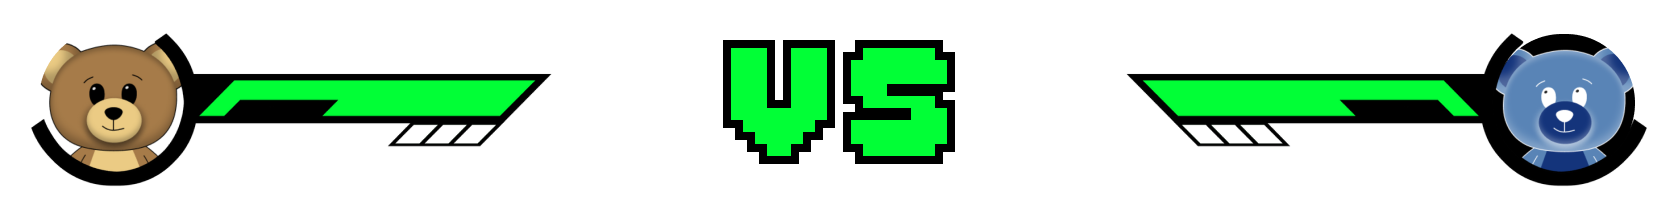
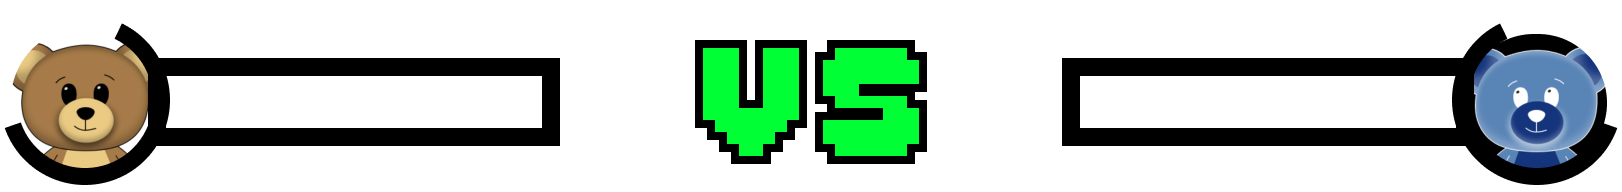
health bar added

diff --git a/src/pages/permPIXEL/PicFighter.js b/src/pages/permPIXEL/PicFighter.js
@@ -53,7 +53,9 @@ class PicFighter extends React.Component {
             attackQueue : [],
             attacking : false,
             animationUrl : 'images/idle.gif',
-            selected: ''
+            selected: '',
+            leftHealth : 290,
+            rightHealth : 290
         }
 	}
 
@@ -76,7 +78,16 @@ class PicFighter extends React.Component {
     async handleAttack(){
         if(this.state.attacking) return;
         if(this.state.attackQueue.length <= 0) return;
-
+        if(this.state.leftHealth <= 0) {
+            this.setState({leftHealth : 290});
+            this.setState({rightHealth : 290});
+            return;            
+        }
+        if(this.state.rightHealth <= 0) {
+            this.setState({leftHealth : 290});
+            this.setState({rightHealth : 290});
+            return;            
+        }
         // LOCK
         this.setState({
             attacking : true
@@ -101,6 +112,16 @@ class PicFighter extends React.Component {
         if (side == 'left') this.state.animationUrl = asset_url("/images/left_hit.gif")
         if (side == 'right') this.state.animationUrl = asset_url("/images/right_hit.gif")
         
+        // HEALTH
+        if (side === 'left')
+            this.setState({
+                leftHealth : this.state.leftHealth - 5
+            });
+        if (side === 'right')
+            this.setState({
+                rightHealth : this.state.rightHealth - 5
+            });
+
         await this.sleep(700)
 
         // UNLOCK
@@ -141,6 +162,8 @@ class PicFighter extends React.Component {
             <Box className={classes.root}>
                     <div className="HUD">
                         <img src = {asset_url("/images/HUD.png")}></img>
+                        <div className={`hp-rectangle ${classes.rectangleLeft}`} style={{ width: this.state.rightHealth }}></div>
+                        <div className={`hp-rectangle ${classes.rectangleRight}`} style={{ width: this.state.leftHealth }}></div>
                     </div>
                     <div className="fight">
                         <img className="attack"
@@ -195,6 +218,9 @@ class PicFighter extends React.Component {
                             </img>  
                         </div>   
                     </div>
+                    <div id="footer">
+                        <p>NUMERO STOP VSS : 0658358728</p>
+                    </div>
                 </Box>
                 
 		);
@@ -235,6 +261,20 @@ const styles = theme => ({
     text: {
       color: '#fff',
       zIndex: 2,    
+    },
+    rectangleLeft :{
+        position: 'absolute',
+        left: '127px',
+        top: '60px',
+        height: '38px',
+        background: '#01FF36',
+    },
+    rectangleRight :{
+        position: 'absolute',
+        right: '127px',
+        top: '60px',
+        height: '38px',
+        background: '#01FF36',
     }
   });
 

diff --git a/src/pages/permPIXEL/PicFighter.css b/src/pages/permPIXEL/PicFighter.css
@@ -30,14 +30,14 @@
     position: absolute;
     height: 51px;
     right : 30px;
-    top:300px;
+    top:260px;
 }
 
 .left {
     position: absolute;
     height: 51px;
     left: 30px;
-    top : 300px;
+    top : 260px;
 }
 
 .vdhText {
@@ -82,4 +82,24 @@
 }
 .HUD img {
     width: 1250px;
+}
+
+.hp-rectangle {
+    transition: .5s ease-in-out;
+}
+
+#footer {
+    width: 100vw;
+    height: 60px;
+    background-color: black;
+    color:white;
+    text-align:center;
+    position:absolute;
+    bottom:0;
+    z-index:200;
+    font-size:40px;
+}
+
+#footer p {
+    margin: 0;
 }
